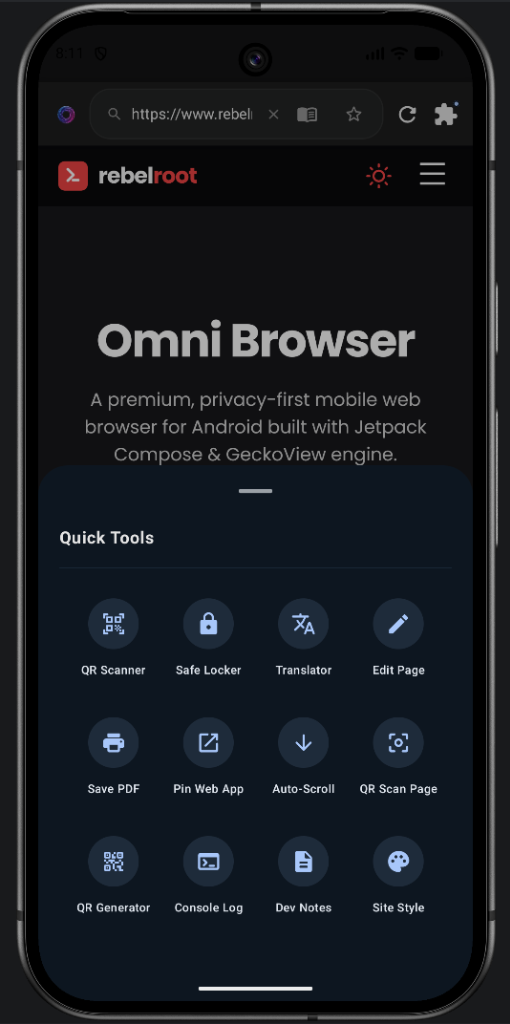
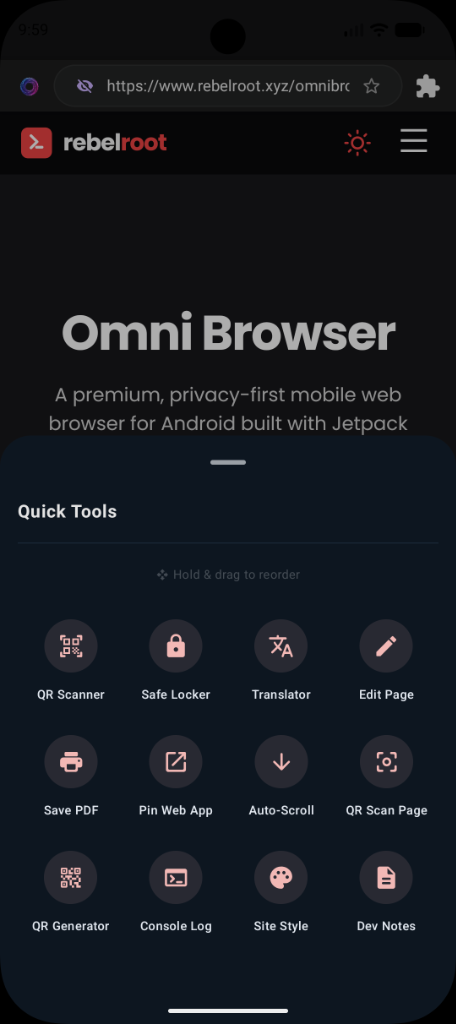
feat: add Unified Quick Tools Panel as the 6th feature showcase block with drag-and-drop launcher grid details

diff --git a/pages/omnibrowser.tsx b/pages/omnibrowser.tsx
@@ -204,6 +204,29 @@ export default function OmniBrowserPage() {
                   </ShowcaseList>
                 </ShowcaseTextSide>
               </ShowcaseBlock>
+
+              {/* Feature 6: Unified Quick Tools */}
+              <ShowcaseBlock reverse>
+                <ShowcaseImageSide>
+                  <PhoneFrame>
+                    <PhoneBezel />
+                    <PhoneNotch />
+                    <ScreenshotImage src="/omni/quick_tools.png" alt="Quick Tools Drawer" />
+                  </PhoneFrame>
+                </ShowcaseImageSide>
+                <ShowcaseTextSide>
+                  <ShowcaseTag>Utility Suite</ShowcaseTag>
+                  <ShowcaseTitle>Unified Quick Tools Panel</ShowcaseTitle>
+                  <ShowcaseParagraph>
+                    Access translators, scanners, code consoles, page style injectors, and auto-scrollers in a single bottom sheet.
+                  </ShowcaseParagraph>
+                  <ShowcaseList>
+                    <li>🚀 **One-Tap Access:** Swipe up or tap the header menu to display the tool sheet.</li>
+                    <li>🎛 **Drag-to-Reorder:** Hold and drag tiles to personalize your layout grid based on your daily workflow.</li>
+                    <li>🧩 **12+ Native Tools:** Pre-bundled with offline tools like a JavaScript dev console, PWA pinners, and code generator.</li>
+                  </ShowcaseList>
+                </ShowcaseTextSide>
+              </ShowcaseBlock>
             </ShowcaseGrid>
           </Container>
         </ShowcaseSection>
